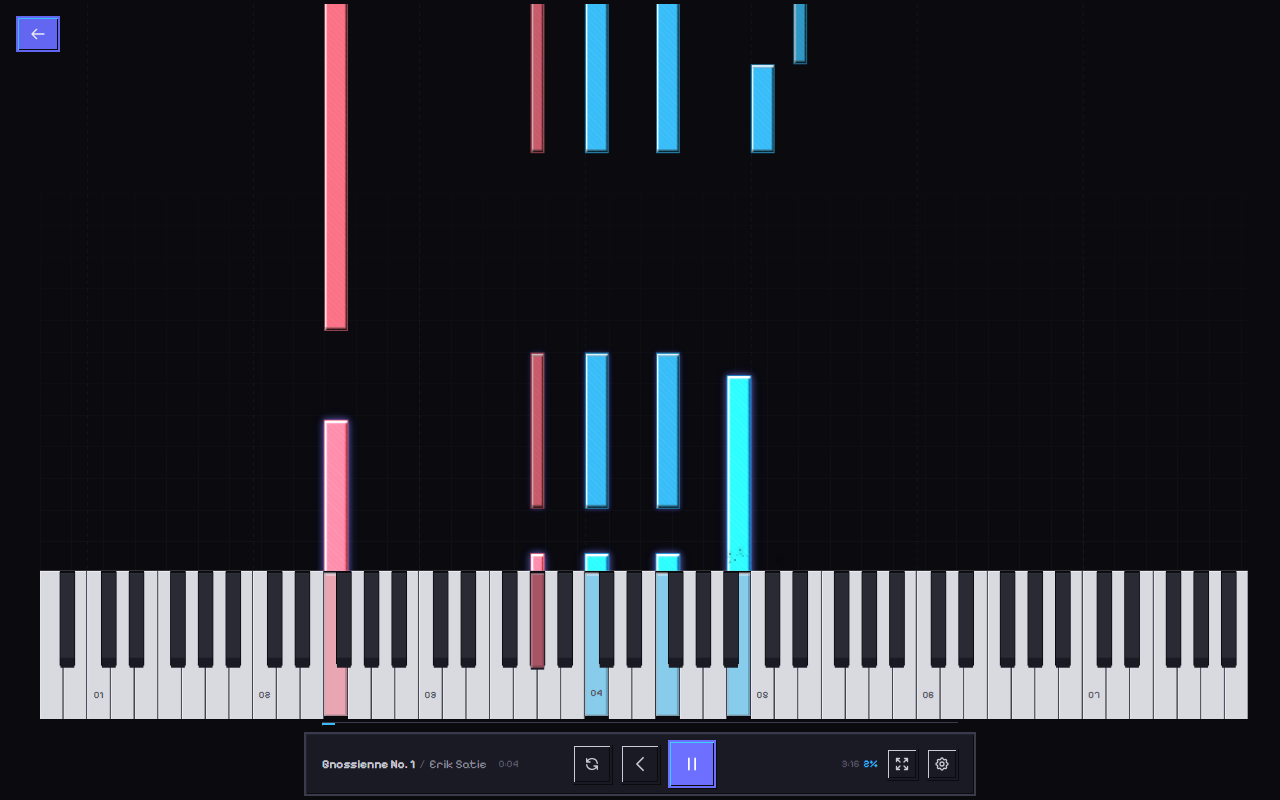
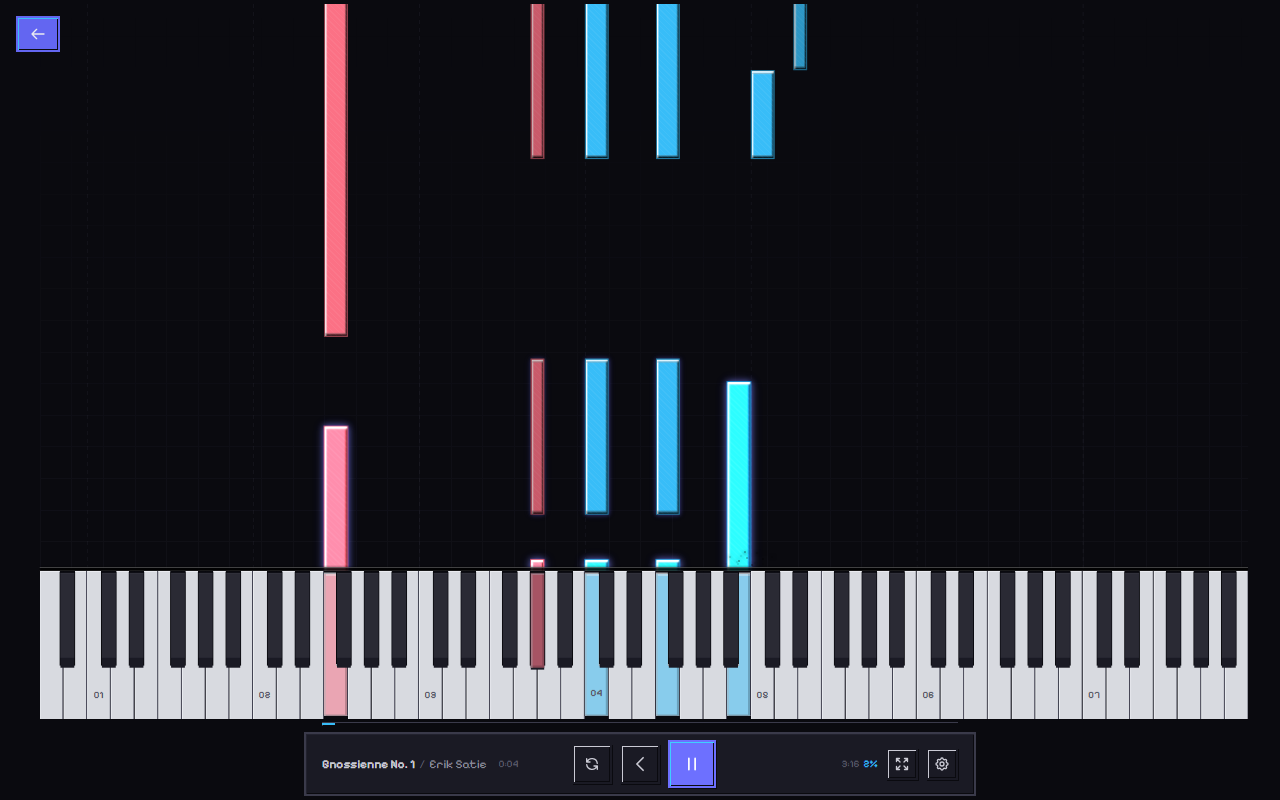
style: revert impact rail position and maximize brightness for better visibility

diff --git a/src/components/piano/EffectsCanvas.tsx b/src/components/piano/EffectsCanvas.tsx
@@ -318,21 +318,17 @@ export function EffectsCanvas({
     // Draw a segmented impact rail (judgment line) that glows at active notes
     const drawImpactRail = useCallback((ctx: CanvasRenderingContext2D, notes: EffectsNote[]) => {
         ctx.save();
-        const railHeight = 4;
-        const y = impactY - 4; // Move it up so it's not hidden by keyboard z-index
+        const railHeight = 2;
+        const y = impactY - railHeight; // Sit exactly on the bottom edge
 
         // 1. Base Rail (Glassy etched groove)
-        // Darker foundation for contrast
-        ctx.fillStyle = "rgba(0, 0, 0, 0.4)"; 
+        // Brighter foundation for visibility on dark backgrounds
+        ctx.fillStyle = "rgba(255, 255, 255, 0.1)"; 
         ctx.fillRect(0, Math.round(y), totalKeyboardWidth, railHeight);
         
         // Top highlight line (sharp luminous edge)
-        ctx.fillStyle = "rgba(255, 255, 255, 0.25)";
+        ctx.fillStyle = "rgba(255, 255, 255, 0.3)";
         ctx.fillRect(0, Math.round(y), totalKeyboardWidth, 1);
-        
-        // Bottom highlight line (fainter edge)
-        ctx.fillStyle = "rgba(255, 255, 255, 0.1)";
-        ctx.fillRect(0, Math.round(y + railHeight - 1), totalKeyboardWidth, 1);
 
         // 2. Active Segments (Intense glow only under active notes)
         ctx.globalCompositeOperation = "lighter";
@@ -344,22 +340,22 @@ export function EffectsCanvas({
             
             // Core hot segment (thicker and brighter)
             const grad = ctx.createLinearGradient(0, y, 0, y + railHeight);
-            grad.addColorStop(0, `rgba(${parsed.r},${parsed.g},${parsed.b}, 0.9)`);
+            grad.addColorStop(0, `rgba(${parsed.r},${parsed.g},${parsed.b}, 1)`);
             grad.addColorStop(0.5, "rgba(255, 255, 255, 1)");
-            grad.addColorStop(1, `rgba(${parsed.r},${parsed.g},${parsed.b}, 0.9)`);
+            grad.addColorStop(1, `rgba(${parsed.r},${parsed.g},${parsed.b}, 1)`);
 
             ctx.fillStyle = grad;
             ctx.fillRect(Math.round(left), Math.round(y), width, railHeight);
 
-            // Subtle vertical bloom (spreads slightly above and below rail)
+            // Subtle vertical bloom (spreads slightly above rail)
             const bloomGrad = ctx.createRadialGradient(
                 left + width / 2, y + railHeight / 2, 0,
                 left + width / 2, y + railHeight / 2, width
             );
-            bloomGrad.addColorStop(0, `rgba(${parsed.r},${parsed.g},${parsed.b}, 0.4)`);
+            bloomGrad.addColorStop(0, `rgba(${parsed.r},${parsed.g},${parsed.b}, 0.5)`);
             bloomGrad.addColorStop(1, "rgba(0, 0, 0, 0)");
             ctx.fillStyle = bloomGrad;
-            ctx.fillRect(Math.round(left - width/2), Math.round(y - 6), width * 2, 16);
+            ctx.fillRect(Math.round(left - width/2), Math.round(y - 10), width * 2, 20);
         }
         ctx.restore();
     }, [impactY, totalKeyboardWidth]);
